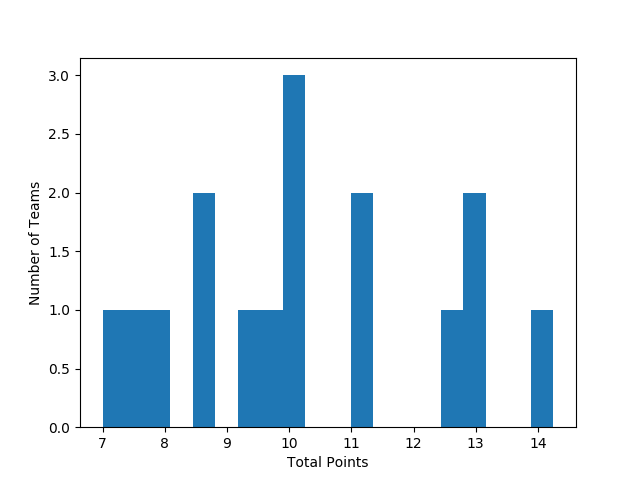
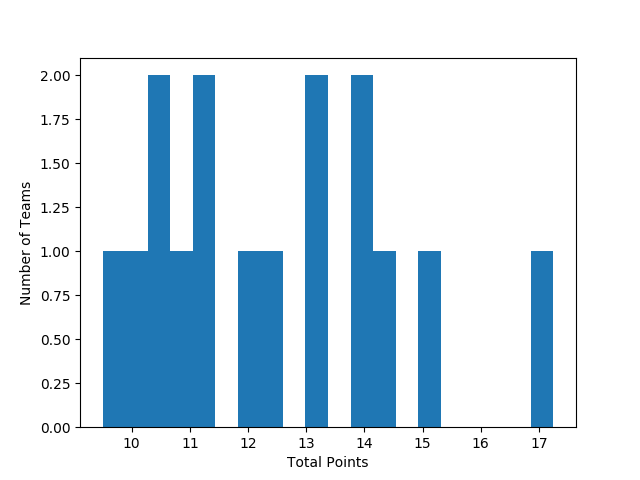
Dec. 29th update

diff --git a/bowl_pool/2022-2023/results.html b/bowl_pool/2022-2023/results.html
@@ -786,27 +786,93 @@ ul.auto-toc {
 <td>0.0</td>
 <td>0.0</td>
 </tr>
+<tr><td>18</td>
+<td>Pinstripe Bowl</td>
+<td>Minnesota</td>
+<td>Syracuse</td>
+<td>7.5</td>
+<td>1.0</td>
+<td>1.0</td>
+<td>1.0</td>
+<td>0.0</td>
+<td>0.0</td>
+<td>1.0</td>
+<td>1.0</td>
+<td>1.0</td>
+<td>1.0</td>
+<td>1.0</td>
+<td>1.0</td>
+<td>1.0</td>
+<td>0.0</td>
+<td>1.0</td>
+<td>1.0</td>
+<td>1.0</td>
+</tr>
+<tr><td>19</td>
+<td>Cheez-It Bowl</td>
+<td>Florida State</td>
+<td>Oklahoma</td>
+<td>8.0</td>
+<td>1.0</td>
+<td>1.0</td>
+<td>2.0<sup>*</sup></td>
+<td>0.0</td>
+<td>1.0</td>
+<td>1.0</td>
+<td>1.0</td>
+<td>1.0</td>
+<td>2.0<sup>*</sup></td>
+<td>1.0</td>
+<td>1.0</td>
+<td>1.0</td>
+<td>2.0<sup>*</sup></td>
+<td>1.0</td>
+<td>2.0<sup>*</sup></td>
+<td>1.0</td>
+</tr>
+<tr><td>20</td>
+<td>Alamo Bowl</td>
+<td>Texas</td>
+<td>Washington</td>
+<td>4.0</td>
+<td>0.0</td>
+<td>0.0</td>
+<td>0.0</td>
+<td>1.5</td>
+<td>0.0</td>
+<td>0.0</td>
+<td>0.0</td>
+<td>0.0</td>
+<td>0.0</td>
+<td>0.0</td>
+<td>0.0</td>
+<td>0.0</td>
+<td>0.0</td>
+<td>0.0</td>
+<td>0.0</td>
+<td>1.5</td>
+</tr>
 <tr><td><strong>Totals</strong></td>
 <td>&nbsp;</td>
 <td>&nbsp;</td>
 <td>&nbsp;</td>
 <td>&nbsp;</td>
-<td><strong>7.5</strong></td>
-<td><strong>9.25</strong></td>
-<td><strong>10.0</strong></td>
-<td><strong>9.75</strong></td>
-<td><strong>13.0</strong></td>
-<td><strong>8.5</strong></td>
-<td><strong>8.0</strong></td>
+<td><strong>9.5</strong></td>
 <td><strong>11.25</strong></td>
-<td><strong>14.25</strong></td>
-<td><strong>10.25</strong></td>
-<td><strong>8.75</strong></td>
 <td><strong>13.0</strong></td>
-<td><strong>12.5</strong></td>
+<td><strong>11.25</strong></td>
+<td><strong>14.0</strong></td>
+<td><strong>10.5</strong></td>
 <td><strong>10.0</strong></td>
-<td><strong>11.0</strong></td>
-<td><strong>7.0</strong></td>
+<td><strong>13.25</strong></td>
+<td><strong>17.25</strong></td>
+<td><strong>12.25</strong></td>
+<td><strong>10.75</strong></td>
+<td><strong>15.0</strong></td>
+<td><strong>14.5</strong></td>
+<td><strong>12.0</strong></td>
+<td><strong>14.0</strong></td>
+<td><strong>10.5</strong></td>
 </tr>
 </tbody>
 </table>

diff --git a/bowl_pool/2022-2023/rankings.html b/bowl_pool/2022-2023/rankings.html
@@ -364,26 +364,26 @@ ul.auto-toc {
 
 
 <div class="line-block">
-<div class="line"><em>Last updated:  2022-12-29 09:23:13</em></div>
-<div class="line"><em>Last bowl scored:  Texas Bowl (Ole Miss vs. Texas Tech)</em></div>
+<div class="line"><em>Last updated:  2022-12-29 23:56:30</em></div>
+<div class="line"><em>Last bowl scored:  Alamo Bowl (Texas vs. Washington)</em></div>
 </div>
 <div class="line-block">
-<div class="line">1. <strong>Bugaroo 14.25</strong></div>
-<div class="line">2. <strong>Badgers 13.0</strong></div>
-<div class="line">2. <strong>GlamKam 13.0</strong></div>
-<div class="line">4. MamaLonghorn 12.5</div>
-<div class="line">5. bopper 11.25</div>
-<div class="line">6. Sure Thing Shipley 11.0</div>
-<div class="line">7. D-bo 10.25</div>
-<div class="line">8. Amanda 10.0</div>
-<div class="line">8. NIL 10.0</div>
-<div class="line">10. Bad News Bibby 9.75</div>
-<div class="line">11. Aggie Austin 9.25</div>
-<div class="line">12. Gigi 8.75</div>
-<div class="line">13. Bear-in-Law 8.5</div>
-<div class="line">14. blue orred 8.0</div>
-<div class="line">15. #mamabear 7.5</div>
-<div class="line">16. <strong>W2D2 7.0</strong></div>
+<div class="line">1. <strong>Bugaroo 17.25</strong></div>
+<div class="line">2. <strong>GlamKam 15.0</strong></div>
+<div class="line">3. MamaLonghorn 14.5</div>
+<div class="line">4. <strong>Badgers 14.0</strong></div>
+<div class="line">4. Sure Thing Shipley 14.0</div>
+<div class="line">6. bopper 13.25</div>
+<div class="line">7. Amanda 13.0</div>
+<div class="line">8. D-bo 12.25</div>
+<div class="line">9. NIL 12.0</div>
+<div class="line">10. Aggie Austin 11.25</div>
+<div class="line">10. Bad News Bibby 11.25</div>
+<div class="line">12. Gigi 10.75</div>
+<div class="line">13. Bear-in-Law 10.5</div>
+<div class="line">13. <strong>W2D2 10.5</strong></div>
+<div class="line">15. blue orred 10.0</div>
+<div class="line">16. #mamabear 9.5</div>
 </div>
 </div>
 </body>

diff --git a/bowl_pool/2022-2023/index.html b/bowl_pool/2022-2023/index.html
@@ -365,8 +365,8 @@ ul.auto-toc {
 
 <p><strong>2022-2023 Bowl Pool</strong></p>
 <div class="line-block">
-<div class="line"><em>Last updated:  2022-12-29 09:23:14</em></div>
-<div class="line"><em>Last bowl scored:  Texas Bowl (Ole Miss vs. Texas Tech)</em></div>
+<div class="line"><em>Last updated:  2022-12-29 23:56:30</em></div>
+<div class="line"><em>Last bowl scored:  Alamo Bowl (Texas vs. Washington)</em></div>
 </div>
 <ul class="simple">
 <li><a class="reference external" href="rankings.html">Rankings</a> (<a class="reference external" href="rankings.csv">csv</a>)</li>
